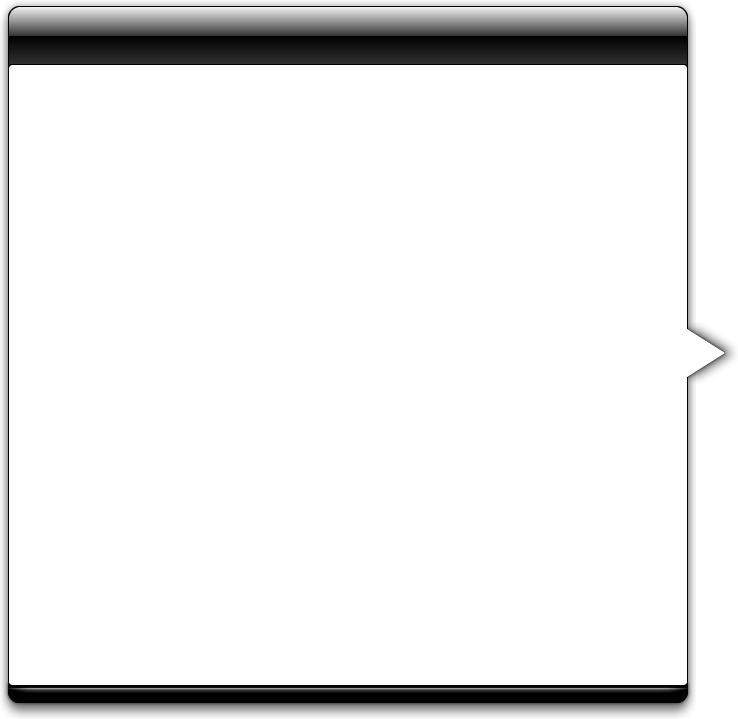
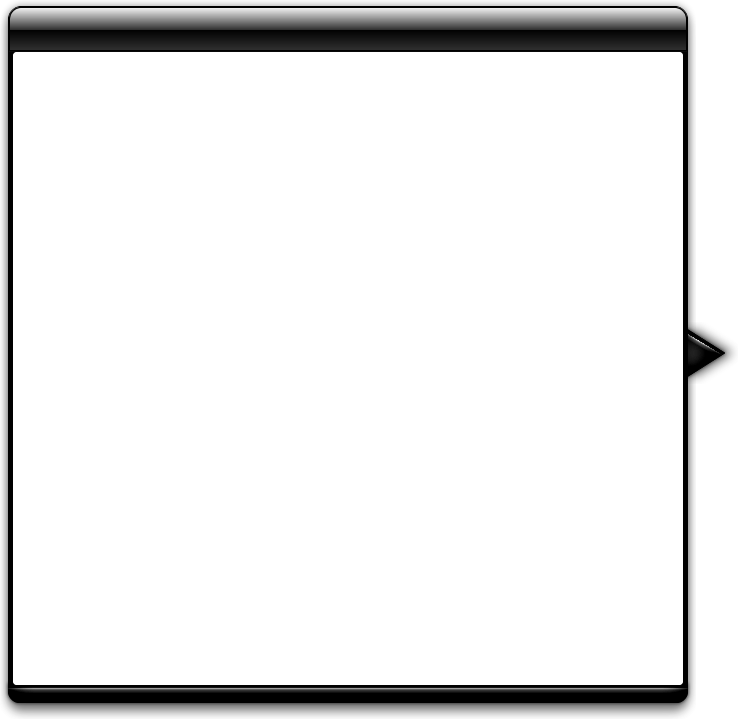
Added new photo album artwork.

Changed region(s): [[0.0, 0.0, 0.9973, 0.9485]]

diff --git a/PhotoWheel/Classes/ViewControllers/PhotoAlbumViewController.m b/PhotoWheel/Classes/ViewControllers/PhotoAlbumViewController.m
@@ -91,17 +91,17 @@
 - (void)layoutForLandscape
 {
    [[self backgroundImageView] setImage:[UIImage imageNamed:@"stack-viewer-bg-landscape-right.png"]];
-   [[self gridView] setFrame:CGRectMake(9, 65, 678, 620)];
-   [[self toolbar] setFrame:CGRectMake(9, 14, 678, 44)];
-   [[self topShadowImageView] setFrame:CGRectMake(9, 65, 678, 8)];
+   [[self topShadowImageView] setFrame:CGRectMake(9, 51, 678, 8)];
+   [[self gridView] setFrame:CGRectMake(9, 51, 678, 634)];
+   [[self toolbar] setFrame:CGRectMake(9, 6, 678, 44)];
 }
 
 - (void)layoutForPortrait
 {
    [[self backgroundImageView] setImage:[UIImage imageNamed:@"stack-viewer-bg-portrait.png"]];
-   [[self gridView] setFrame:CGRectMake(9, 65, 698, 583)];
-   [[self toolbar] setFrame:CGRectMake(9, 14, 698, 44)];
-   [[self topShadowImageView] setFrame:CGRectMake(9, 65, 698, 8)];
+   [[self topShadowImageView] setFrame:CGRectMake(9, 51, 698, 8)];
+   [[self gridView] setFrame:CGRectMake(9, 51, 698, 597)];
+   [[self toolbar] setFrame:CGRectMake(9, 6, 698, 44)];
 }
 
 - (void)doRefreshDisplay
